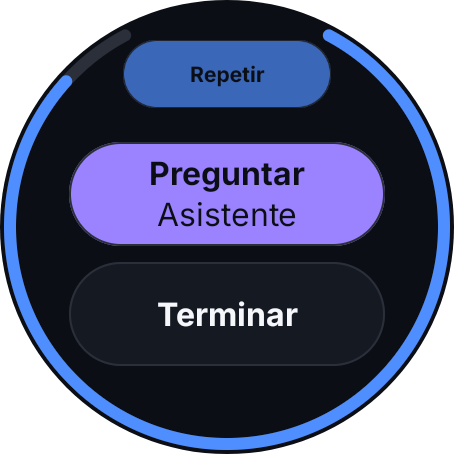
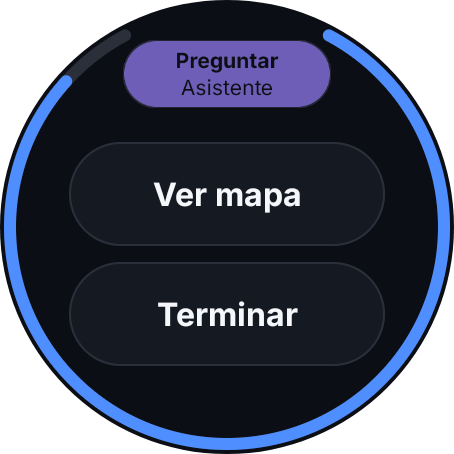
Bajar la etiqueta del mapa, agrandar la ruta entera y documentar el mapa con sus capturas

Changed region(s): [[0.1542, 0.3084, 0.8634, 0.5551], [0.2467, 0.0925, 0.7401, 0.2467]]

diff --git a/watchapp/app/src/main/java/com/rumbo/watchapp/presentation/screens/RouteMapScreen.kt b/watchapp/app/src/main/java/com/rumbo/watchapp/presentation/screens/RouteMapScreen.kt
@@ -1,20 +1,23 @@
 package com.rumbo.watchapp.presentation.screens
 
 import androidx.compose.foundation.layout.Arrangement
+import androidx.compose.foundation.layout.Column
 import androidx.compose.foundation.layout.Row
 import androidx.compose.foundation.layout.Spacer
 import androidx.compose.foundation.layout.fillMaxWidth
 import androidx.compose.foundation.layout.height
+import androidx.compose.foundation.layout.offset
+import androidx.compose.foundation.layout.padding
 import androidx.compose.runtime.Composable
 import androidx.compose.runtime.getValue
 import androidx.compose.runtime.mutableStateOf
 import androidx.compose.runtime.remember
 import androidx.compose.runtime.setValue
+import androidx.compose.ui.Alignment
 import androidx.compose.ui.Modifier
 import androidx.compose.ui.platform.LocalConfiguration
 import androidx.compose.ui.semantics.contentDescription
 import androidx.compose.ui.semantics.semantics
-import androidx.compose.ui.unit.Dp
 import androidx.compose.ui.unit.dp
 import com.rumbo.watchapp.application.usecase.TrackingState
 import com.rumbo.watchapp.domain.map.MapZoom
@@ -24,9 +27,17 @@ import com.rumbo.watchapp.presentation.components.RouteMapCanvas
 import com.rumbo.watchapp.presentation.components.StateBadge
 import com.rumbo.watchapp.presentation.format.describeDistance
 
-// Alto de la etiqueta y de los botones, con su separación: el mapa queda libre entre ellos.
-private val BadgeArea = 38.dp
-private val ButtonsArea = 60.dp
+// La etiqueta y los botones van juntos abajo, donde tapan lo ya recorrido y no lo que viene. Este es
+// su alto con la separación que pone RumboScreen; el resto queda para el mapa, sin desplazar.
+private val ControlsArea = 87.dp
+
+// Bajan un poco más sin cambiar lo medido, para no chocar con el punto de la persona, que va al
+// centro y puede ser del mismo color que la etiqueta. Así tampoco hay nada que desplazar.
+private val ControlsDrop = 6.dp
+private val ButtonsInset = 4.dp
+
+// Lo que ocupa la hora: la ruta entera se dibuja debajo de ella.
+private val TimeArea = 24.dp
 
 // El margen de arriba y abajo de RumboScreen en pantalla redonda.
 private const val VERTICAL_MARGIN = 0.14f
@@ -48,9 +59,9 @@ private fun describeMap(state: TrackingState, label: String, zoom: MapZoom): Str
 }
 
 /**
- * Pantalla "Mapa": la ruta dibujada por [RouteMapCanvas], con la etiqueta del estado arriba y
- * abajo "Atrás" y el botón que alterna la vista de cerca (la persona al centro, su rumbo arriba)
- * y la de toda la ruta (el norte arriba). Solo muestra [state]: la guía sigue por su cuenta.
+ * Pantalla "Mapa": la ruta dibujada por [RouteMapCanvas] y, abajo, la etiqueta del estado, "Atrás"
+ * y el botón que alterna la vista de cerca (la persona al centro, su rumbo arriba) y la de toda la
+ * ruta (el norte arriba). Solo muestra [state]: la guía sigue por su cuenta.
  */
 @Composable
 fun RouteMapScreen(state: TrackingState, onBack: () -> Unit, initialZoom: MapZoom = MapZoom.NEARBY) {
@@ -66,24 +77,29 @@ fun RouteMapScreen(state: TrackingState, onBack: () -> Unit, initialZoom: MapZoo
                     state = state,
                     zoom = zoom,
                     description = describeMap(state, label, zoom),
-                    topInset = margin + BadgeArea,
-                    bottomInset = margin + ButtonsArea,
+                    topInset = TimeArea,
+                    bottomInset = margin + ControlsArea,
                 )
             },
         ) {
-            StateBadge(label, lookOf(state).color, announce = true, filled = true)
-            Spacer(Modifier.height(freeHeight(screenHeight, margin)))
-            Row(Modifier.fillMaxWidth(), horizontalArrangement = Arrangement.spacedBy(8.dp)) {
-                PillButton("Atrás", onClick = onBack, modifier = Modifier.weight(1f))
-                ZoomButton(zoom, onChange = { zoom = it }, modifier = Modifier.weight(1f))
+            Spacer(Modifier.height((screenHeight - margin * 2 - ControlsArea).coerceAtLeast(0.dp)))
+            Column(
+                modifier = Modifier.offset(y = ControlsDrop),
+                horizontalAlignment = Alignment.CenterHorizontally,
+                verticalArrangement = Arrangement.spacedBy(2.dp),
+            ) {
+                StateBadge(label, lookOf(state).color, announce = true, filled = true, compact = true)
+                Row(
+                    modifier = Modifier.fillMaxWidth().padding(horizontal = ButtonsInset),
+                    horizontalArrangement = Arrangement.spacedBy(8.dp),
+                ) {
+                    PillButton("Atrás", onClick = onBack, modifier = Modifier.weight(1f))
+                    ZoomButton(zoom, onChange = { zoom = it }, modifier = Modifier.weight(1f))
+                }
             }
         }
     }
 }
-
-// Lo que sobra entre la etiqueta y los botones, sin obligar a desplazar la pantalla.
-private fun freeHeight(screenHeight: Dp, margin: Dp) =
-    (screenHeight - margin * 2 - BadgeArea - ButtonsArea).coerceAtLeast(0.dp)
 
 @Composable
 private fun ZoomButton(zoom: MapZoom, onChange: (MapZoom) -> Unit, modifier: Modifier = Modifier) {

diff --git a/watchapp/app/src/main/java/com/rumbo/watchapp/domain/map/RouteMap.kt b/watchapp/app/src/main/java/com/rumbo/watchapp/domain/map/RouteMap.kt
@@ -6,8 +6,9 @@ import com.rumbo.watchapp.domain.geo.cumulativeDistances
 import com.rumbo.watchapp.domain.geo.stepAlongDistances
 import com.rumbo.watchapp.domain.model.Coordinates
 import com.rumbo.watchapp.domain.model.Route
-import kotlin.math.hypot
+import kotlin.math.max
 import kotlin.math.min
+import kotlin.math.sqrt
 
 /** Lo que muestra la vista cercana delante de la persona. */
 const val NEARBY_RADIUS_M = 150.0
@@ -117,12 +118,26 @@ private fun nearbyRadiusPx(view: MapView) = min(view.width, view.height) / 2 - v
 private fun nearbyCamera(person: Point2, headingDeg: Double, view: MapView) =
     Camera(person, headingDeg, nearbyRadiusPx(view) / NEARBY_RADIUS_M, view.width / 2, view.height / 2)
 
-// Se ajusta por la distancia al centro y no por el rectángulo: en pantalla redonda las esquinas no existen.
+// Lo más grande que cabe en la franja libre sin salirse del círculo: en pantalla redonda las esquinas
+// no existen, y una ruta ancha puede pasar de lado a lado aunque la franja sea baja.
 private fun wholeRouteCamera(points: List<Point2>, view: MapView): Camera {
-    val focus = Point2((points.minOf { it.x } + points.maxOf { it.x }) / 2, (points.minOf { it.y } + points.maxOf { it.y }) / 2)
-    val farthest = points.maxOf { hypot(it.x - focus.x, it.y - focus.y) }
+    val south = points.minOf { it.y }
+    val north = points.maxOf { it.y }
+    val focus = Point2((points.minOf { it.x } + points.maxOf { it.x }) / 2, (south + north) / 2)
     val freeHeight = view.height - view.topInset - view.bottomInset
-    val radiusPx = min(view.width / 2 - view.margin, freeHeight / 2)
-    val scale = if (farthest > 0) radiusPx / farthest else nearbyRadiusPx(view) / NEARBY_RADIUS_M
-    return Camera(focus, 0.0, scale, view.width / 2, view.topInset + freeHeight / 2)
+    val centerY = view.topInset + freeHeight / 2
+    val radius = nearbyRadiusPx(view)
+    val inCircle = points.minOf { scaleInsideCircle(it.x - focus.x, it.y - focus.y, centerY - view.height / 2, radius) }
+    val inBand = if (north > south) freeHeight / (north - south) else Double.MAX_VALUE
+    val scale = min(inCircle, inBand).takeIf { it < Double.MAX_VALUE } ?: (radius / NEARBY_RADIUS_M)
+    return Camera(focus, 0.0, scale, view.width / 2, centerY)
+}
+
+// La mayor escala con la que un punto a (dx, dy) del foco queda en el círculo, si el foco se dibuja
+// [shift] px por debajo del centro: la raíz positiva de (s·dx)² + (shift - s·dy)² = radius².
+private fun scaleInsideCircle(dx: Double, dy: Double, shift: Double, radius: Double): Double {
+    val squared = dx * dx + dy * dy
+    if (squared == 0.0) return Double.MAX_VALUE
+    val along = shift * dy
+    return (along + sqrt(along * along + squared * max(radius * radius - shift * shift, 0.0))) / squared
 }

diff --git a/watchapp/app/src/test/java/com/rumbo/watchapp/domain/map/RouteMapTest.kt b/watchapp/app/src/test/java/com/rumbo/watchapp/domain/map/RouteMapTest.kt
@@ -153,6 +153,37 @@ class RouteMapTest {
         frame.route.flatten().forEach { assertTrue("$it", it.y in 50.0 - TOLERANCE..304.0 + TOLERANCE) }
     }
 
+    // Hora arriba y controles abajo, como en la pantalla: la franja libre queda por encima del centro.
+    private val highBand = MapView(454.0, 454.0, 27.0, topInset = 48.0, bottomInset = 234.0)
+
+    @Test
+    fun theWholeRouteStaysInsideTheCircleWhenTheFreeBandIsHigh() {
+        val frame = mapFrame(geometry, at(0.0, 100.0), 0.0, 100.0, MapZoom.WHOLE_ROUTE, highBand)
+
+        frame.route.flatten().forEach {
+            assertTrue("$it", hypot(it.x - center.x, it.y - center.y) <= 200.0 + TOLERANCE)
+            assertTrue("$it", it.y in 48.0 - TOLERANCE..220.0 + TOLERANCE)
+        }
+    }
+
+    @Test
+    fun aWideRouteUsesTheWidthOfTheScreenEvenIfTheFreeBandIsLow() {
+        val wide = RouteGeometry(Route("Este", 0.0, 0.0, emptyList(), listOf(at(0.0, 0.0), at(300.0, 0.0))))
+
+        val line = mapFrame(wide, null, null, 0.0, MapZoom.WHOLE_ROUTE, highBand).route.flatten()
+
+        assertTrue("Ancho: ${line.last().x - line.first().x}", line.last().x - line.first().x > 300)
+    }
+
+    @Test
+    fun theWholeRouteFillsTheFreeBandWhenItIsTall() {
+        val tall = RouteGeometry(Route("Norte", 0.0, 0.0, emptyList(), listOf(at(0.0, 0.0), at(0.0, 300.0))))
+
+        val line = mapFrame(tall, null, null, 0.0, MapZoom.WHOLE_ROUTE, highBand).route.flatten()
+
+        assertEquals(172.0, line.first().y - line.last().y, TOLERANCE)
+    }
+
     @Test
     fun theWholeRouteKeepsNorthUp() {
         val frame = frame(heading = 90.0, zoom = MapZoom.WHOLE_ROUTE)

diff --git a/watchapp/app/src/main/java/com/rumbo/watchapp/presentation/components/StateBadge.kt b/watchapp/app/src/main/java/com/rumbo/watchapp/presentation/components/StateBadge.kt
@@ -19,7 +19,8 @@ import com.rumbo.watchapp.presentation.theme.OnColor
 /**
  * Píldora con el nombre del estado escrito en su color, sobre un tinte del mismo color. El
  * estado siempre va en el texto; el color solo lo refuerza. Con [filled] la píldora es del color
- * y el texto va oscuro (como "Escuchando"). Con [announce], TalkBack lo lee cuando cambia.
+ * y el texto va oscuro (como "Escuchando"). Con [announce], TalkBack lo lee cuando cambia. Con
+ * [compact] ocupa menos alto, para cuando va sobre el mapa.
  */
 @Composable
 fun StateBadge(
@@ -28,13 +29,14 @@ fun StateBadge(
     modifier: Modifier = Modifier,
     announce: Boolean = false,
     filled: Boolean = false,
+    compact: Boolean = false,
 ) {
     Text(
         text = text,
         modifier = modifier
             .background(if (filled) color else color.copy(alpha = 0.16f), CircleShape)
             .border(1.dp, color, CircleShape)
-            .padding(horizontal = 14.dp, vertical = 6.dp)
+            .padding(horizontal = 14.dp, vertical = if (compact) 2.dp else 6.dp)
             .then(if (announce) Modifier.semantics { liveRegion = LiveRegionMode.Polite } else Modifier),
         style = MaterialTheme.typography.labelMedium,
         color = if (filled) OnColor else color,

diff --git a/watchapp/app/src/main/java/com/rumbo/watchapp/presentation/components/RouteMapCanvas.kt b/watchapp/app/src/main/java/com/rumbo/watchapp/presentation/components/RouteMapCanvas.kt
@@ -39,7 +39,7 @@ private val RouteBaseWidth = 9.dp
 private val OffRouteHighlightWidth = 13.dp
 private val TurnRadius = 10.dp
 private val TurnStroke = 3.dp
-private val DestinationRadius = 10.dp
+private val DestinationRadius = 12.dp
 private val PersonRadius = 7.dp
 private val ArrowTip = 19.dp
 private val ArrowHalfWidth = 8.dp
@@ -47,8 +47,8 @@ private val Outline = 2.dp
 
 /**
  * El mapa de la ruta, solo con lo que trae [state]: no usa teselas ni internet. Se dibuja una vez por
- * cada [state] o [zoom] nuevo, sin animaciones. [topInset] y [bottomInset] son lo que tapan los
- * controles: la ruta entera se ajusta entre ellos.
+ * cada [state] o [zoom] nuevo, sin animaciones. [topInset] y [bottomInset] son lo que tapan la hora
+ * y los controles: la ruta entera se ajusta entre ellos.
  */
 @Composable
 fun RouteMapCanvas(

diff --git a/watchapp/app/src/main/java/com/rumbo/watchapp/presentation/screens/RumboScreen.kt b/watchapp/app/src/main/java/com/rumbo/watchapp/presentation/screens/RumboScreen.kt
@@ -86,10 +86,10 @@ fun RumboScreen(
             content = content,
         )
     }
-    if (edgeRing == null) {
+    if (edgeRing == null && background == null) {
         ScreenScaffold(scrollState = scrollState, modifier = modifier, contentPadding = padding, content = body)
     } else {
-        // El anillo ocupa el borde: ahí no cabe además el indicador de desplazamiento.
+        // El anillo o el mapa ocupan el borde: ahí no cabe además el indicador de desplazamiento.
         ScreenScaffold(
             scrollState = scrollState,
             modifier = modifier,

diff --git a/docs/REQUIREMENTS.md b/docs/REQUIREMENTS.md
@@ -63,7 +63,7 @@ smartwatch-nav/
 │   └── requirements.txt
 ├── watchapp/
 │   └── app/src/main/java/.../
-│       ├── domain/{model,error,port}/
+│       ├── domain/{model,error,port,map}/
 │       ├── application/usecase/
 │       ├── infrastructure/{location,vibration,audio,tts,network}/
 │       ├── presentation/{screens,components,viewmodel,theme,format}/
@@ -351,6 +351,7 @@ vibration_events (log para demo/sustentación)
 - RF11: Repetir la indicación con el botón "Repetir", diciendo "repite" o con doble toque en cualquier parte de "En ruta", también con TalkBack.
 - RF12: Ningún paso de la ruta se omite por ser de un tipo desconocido: se dice y se muestra con su texto original, con vibración de atención y con "Atención:" si menciona un peligro.
 - RF13: Órdenes por voz en Inicio, Confirmar y en ruta: guardar el destino, repetir, cancelar, cuánto falta y si el destino está guardado, cada una con vibración de resultado y dicha en voz. El destino guardado se muestra en la ruta ("Guardado ✓") y se avisa al iniciar.
+- RF14: Mapa de la ruta en el reloj, desde "En ruta" con "Ver mapa": lo recorrido, lo que falta, el próximo giro, el destino y la persona con su rumbo, de cerca (los próximos ~150 m) o la ruta entera. Se dibuja sin teselas ni internet y solo lee el estado de la navegación (ver Pantallas, Mapa).
 
 ## 8. Requerimientos no funcionales
 
@@ -368,9 +369,9 @@ vibration_events (log para demo/sustentación)
 
 Diseñadas en Claude Design (lienzo "Rumbo — UI del reloj"). La app se prueba en el emulador **Wear OS Large Round** (454 × 454 px, 320 dpi = 227 dp); capturas de cada pantalla en `docs/capturas/` (se regeneran con `tools/capture_screens.sh`).
 
-**Pantalla redonda.** Todas usan `RumboScreen`: `ScreenScaffold` de Wear (la hora se esconde al desplazar y aparece el indicador de desplazamiento) con márgenes en proporción a la pantalla, 10 % a los lados y 14 % arriba y abajo (en la cuadrada, 5,2 % y 12 %), para que una píldora a lo ancho quepa entera en el círculo en la primera y la última posición y nada quede debajo de la hora. Si el contenido cabe, se centra; si no, se desplaza con el dedo o la corona. Lo que pasa por el borde de arriba o de abajo se achica (hasta 60 %) lo justo para entrar en el círculo y, si se achica más del 75 %, se atenúa, como en las listas de Wear: nada queda cortado. Con anillo, el contenido se aleja también del anillo.
+**Pantalla redonda.** Todas usan `RumboScreen`: `ScreenScaffold` de Wear (la hora se esconde al desplazar y aparece el indicador de desplazamiento) con márgenes en proporción a la pantalla, 10 % a los lados y 14 % arriba y abajo (en la cuadrada, 5,2 % y 12 %), para que una píldora a lo ancho quepa entera en el círculo en la primera y la última posición y nada quede debajo de la hora. Si el contenido cabe, se centra; si no, se desplaza con el dedo o la corona. Lo que pasa por el borde de arriba o de abajo se achica (hasta 60 %) lo justo para entrar en el círculo y, si se achica más del 75 %, se atenúa, como en las listas de Wear: nada queda cortado. Con anillo, el contenido se aleja también del anillo. El mapa va detrás de todo (`background`); con anillo o con mapa no se muestra el indicador de desplazamiento.
 
-**Gesto de volver.** El "atrás" del sistema (incluido el de TalkBack) y, hasta Android 15, deslizar de izquierda a derecha (`BasicSwipeToDismissBox`; desde Android 16 el sistema convierte ese gesto en "atrás"). Desde Inicio no se intercepta y sale de la app; desde Confirmar, Escuchando, Procesando (cancela la grabación o la carga), Error, Asistente, Lugares guardados y Vibraciones vuelve a Inicio, o a la ruta si hay una en curso (durante la secuencia de demostración primero la detiene); desde "¿Borrar?" vuelve a la lista; en ruta pregunta "¿Terminar la ruta?" (Seguir navegando / Terminar), salvo que ya se haya llegado, y volver otra vez equivale a "Seguir navegando".
+**Gesto de volver.** El "atrás" del sistema (incluido el de TalkBack) y, hasta Android 15, deslizar de izquierda a derecha (`BasicSwipeToDismissBox`; desde Android 16 el sistema convierte ese gesto en "atrás"). Desde Inicio no se intercepta y sale de la app; desde Confirmar, Escuchando, Procesando (cancela la grabación o la carga), Error, Asistente, Lugares guardados y Vibraciones vuelve a Inicio, o a la ruta si hay una en curso (durante la secuencia de demostración primero la detiene); desde "¿Borrar?" vuelve a la lista; desde Mapa vuelve a En ruta sin preguntar; en ruta pregunta "¿Terminar la ruta?" (Seguir navegando / Terminar), salvo que ya se haya llegado, y volver otra vez equivale a "Seguir navegando".
 
 1. Inicio: badge "Listo para navegar" (y "Sin GPS" si aún no hay permiso de ubicación), "Continuar ruta anterior" con el destino si la app se cerró a mitad de una ruta, "¿A dónde vamos?" (Poppins 700, 32 sp), botón de micrófono de 108 dp ("Hablar destino"), "Toca y habla", botones "Lugares guardados" y "Vibraciones" (Aprende los patrones), interruptor "Voz: sí" / "Voz: no" (el estado va en el texto, no solo en el color; se guarda en SharedPreferences y empieza en sí) con la voz en uso debajo ("Del reloj", "Gemini" o "No disponible") y, si falta el español del motor, el botón "Falta la voz en español del reloj".
    - Lugares guardados: lista de píldoras; tocar un lugar pide la ruta y pasa a Confirmar; mantenerlo pulsado ofrece borrarlo con confirmación ("¿Borrar «X»?" Cancelar / Borrar). Si está vacía: "Aún no tienes lugares guardados".
@@ -381,7 +382,7 @@ Diseñadas en Claude Design (lienzo "Rumbo — UI del reloj"). La app se prueba 
    - Permiso necesario: ícono, la explicación del permiso negado, "Abrir ajustes", "Ir sin notificación" (solo notificaciones), "Inicio" y la pista "En Ajustes, toca Permisos y actívalo".
 4. Confirmar destino: badge, nombre, distancia y tiempo a pie (mientras la app dice el destino en voz alta, el badge se funde en barras como las de Escuchando con un movimiento suave, `SpeakingBars`; ocupan su mismo lugar para que nada se mueva justo cuando se va a tocar "Ir", y TalkBack sigue leyendo el badge); Ir, "Hablar" (morado, con "Micrófono" debajo: abre Escuchando), Cambiar y "Guardar" ("Guardando..." → "Guardado ✓"; si falla, "No pude guardar el lugar"). Si el destino vino de un lugar guardado o ya estaba guardado, aparece "Guardado ✓".
 5. Error: ícono de advertencia, el mensaje, Reintentar e Inicio ("Volver a la ruta" si hay una en curso).
-6. En ruta: anillo de progreso en el borde (se llena hacia el siguiente paso; deja libre el hueco de la hora), badge del estado, ícono de la maniobra siguiente, la indicación (24 sp; 20 sp si pasa de 16 caracteres; con más de 30 el ícono baja de 72 a 60 dp para que se lea sin desplazar; si a 20 sp ocupa más de 3 líneas, medido con `onTextLayout` porque depende de dónde caen las palabras, baja a 16 sp y el ícono a 48 dp: así las indicaciones reales largas, como "Gire a la izquierda para permanecer en Carrera 14.", se leen enteras y no quedan cortadas ni atenuadas por el borde redondo), "En X m" y "Faltan X", "Guardado ✓" si el destino está guardado (TalkBack lee "Destino guardado"), indicador de vibración y botones "Repetir" (vuelve a vibrar el último patrón y dice la indicación de la etapa actual), "Preguntar" (morado `#9B82FF` con "Asistente" debajo: abre Escuchando sin detener la ruta) y "Terminar". Un **doble toque en cualquier parte** de la pantalla, también sobre los botones, hace lo mismo que "Repetir" (`doubleTapAnywhere`: se escucha antes que los botones y el segundo toque se consume). Los tres botones actúan tras la ventana de doble toque (300 ms, `DoubleTapGate`), porque "Terminar" acaba la ruta en el primer toque: sin esa espera, un doble toque que cayera ahí dejaba a la persona sin guía (`RouteDoubleTapTest`). Con TalkBack los toques no llegan a la app: el lector activa lo que tenga enfocado, así que el estado, el ícono, la indicación, las distancias y el anillo llevan una acción de clic con la etiqueta "repetir la indicación"; si el foco está en un botón, activa ese botón. Estados, cada uno con su texto, color e ícono:
+6. En ruta: anillo de progreso en el borde (se llena hacia el siguiente paso; deja libre el hueco de la hora), badge del estado, ícono de la maniobra siguiente, la indicación (24 sp; 20 sp si pasa de 16 caracteres; con más de 30 el ícono baja de 72 a 60 dp para que se lea sin desplazar; si a 20 sp ocupa más de 3 líneas, medido con `onTextLayout` porque depende de dónde caen las palabras, baja a 16 sp y el ícono a 48 dp: así las indicaciones reales largas, como "Gire a la izquierda para permanecer en Carrera 14.", se leen enteras y no quedan cortadas ni atenuadas por el borde redondo), "En X m" y "Faltan X", "Guardado ✓" si el destino está guardado (TalkBack lee "Destino guardado"), indicador de vibración y botones "Repetir" (vuelve a vibrar el último patrón y dice la indicación de la etapa actual), "Preguntar" (morado `#9B82FF` con "Asistente" debajo: abre Escuchando sin detener la ruta), "Ver mapa" y "Terminar". Un **doble toque en cualquier parte** de la pantalla, también sobre los botones, hace lo mismo que "Repetir" (`doubleTapAnywhere`: se escucha antes que los botones y el segundo toque se consume). Los cuatro botones actúan tras la ventana de doble toque (300 ms, `DoubleTapGate`), porque "Terminar" acaba la ruta en el primer toque: sin esa espera, un doble toque que cayera ahí dejaba a la persona sin guía (`RouteDoubleTapTest`). Con TalkBack los toques no llegan a la app: el lector activa lo que tenga enfocado, así que el estado, el ícono, la indicación, las distancias y el anillo llevan una acción de clic con la etiqueta "repetir la indicación"; si el foco está en un botón, activa ese botón. Estados, cada uno con su texto, color e ícono:
 
 | Estado | Badge | Color | Ícono | Texto principal |
 |---|---|---|---|---|
@@ -395,6 +396,20 @@ Diseñadas en Claude Design (lienzo "Rumbo — UI del reloj"). La app se prueba 
 
 7. Asistente: badge "Asistente" relleno en `#9B82FF` (mientras suena la respuesta se funde en barras, `SpeakingBars`, como en Confirmar), la pregunta entre comillas («¿Cuánto falta para llegar?», en `#A0A8B8`; TalkBack lee "Preguntaste: ..."), la respuesta en Poppins (se anuncia sola con `liveRegion`), "Preguntar otra vez" (morado) y "Volver a la ruta" o "Inicio". Antes, Procesando con "Pensando la respuesta...".
 
+8. Mapa, desde "Ver mapa" en En ruta (RF14): la ruta dibujada a pantalla completa (`RouteMapCanvas`, Canvas de Compose), sin librerías, teselas ni internet. Fondo `#0B0E14`; ruta completa `#2A2F3A`; lo recorrido `#4F8EFF`; lo que falta `#F5F7FA`; destino: diana `#3DDC84`; próximo giro: aro `#FFC857`; persona: punto con flecha de dirección `#FFC857`. Las tres marcas se distinguen por la forma, no solo por el color. Abajo, la etiqueta del estado (badge relleno y compacto), "Atrás" y "Ruta" / "Cerca" (TalkBack: "Ver toda la ruta" / "Ver de cerca"). Etiqueta y botones van juntos abajo porque ahí tapan lo ya recorrido; arriba escondían el próximo giro. TalkBack lee el mapa en palabras ("Mapa de cerca. En ruta. Gire a la derecha. Faltan 80 metros") y anuncia los cambios de estado.
+   - De cerca (por defecto): la persona al centro, su rumbo hacia arriba y 150 m hasta el margen del borde. Quieta conserva el último rumbo; sin ninguno, usa la dirección de la ruta. Sin lectura de GPS, la persona va sobre la ruta.
+   - Toda la ruta: norte arriba, lo más grande que cabe entre la hora y los controles sin salirse del círculo, incluida la persona si está lejos de la ruta.
+   - Geometría en `domain/map`, Kotlin puro con JUnit: proyección equirrectangular (`LocalProjection`), giro por rumbo (`rotateToHeading`), recorte al rectángulo visible con Liang-Barsky (`clipToViewport`), corte en lo recorrido (`splitAlong`) y `mapFrame`, que arma cada cuadro. Ruta vacía: solo fondo y controles. Ruta de un punto: el destino bajo la persona.
+   - Batería: `mapUpdates` deja pasar como mucho un cuadro por segundo y solo si cambió algo que se ve (la vibración no); sin cambios no redibuja, no hay animaciones y solo se recoge con la pantalla abierta. Se mantiene encendida y se atenúa como En ruta.
+   - Solo lee `TrackingState`: abrir o cerrar el mapa no toca GPS, vibraciones ni voz, y siguen sonando mientras está abierto. Al recalcular muestra la ruta nueva.
+
+| Estado | Etiqueta | Persona | Ruta |
+|---|---|---|---|
+| En ruta, giro próximo, maniobra | En ruta, Giro próximo, Gira ahora o Atención | `#FFC857` | normal |
+| Desviado | Fuera de ruta | `#FF8A3D` | resaltada con un borde `#FF8A3D` |
+| Sin señal | Sin señal | `#8A93A6`, en la última posición | normal |
+| Llegada | Llegaste | `#FFC857`, sobre el destino | toda recorrida |
+
 ## 10. Estilo visual — Design tokens
 
 - Tipografía: títulos Poppins (600/700), texto Inter (400/500/700), empaquetadas como TTF en `res/font` (descargadas de Google Fonts, licencia OFL en `assets/licenses`; sin proveedor de fuentes en línea). Escala del reloj: 16 / 20 / 24 / 32 / 40 sp con interlineado 1.25; ningún texto baja de 16 sp (`presentation/theme/Type.kt`).
@@ -402,10 +417,11 @@ Diseñadas en Claude Design (lienzo "Rumbo — UI del reloj"). La app se prueba 
 - Escala semántica de estados (siempre con texto): en ruta `#4F8EFF`, giro próximo `#FFC857`, desviado `#FF8A3D`, sin señal GPS `#8A93A6`, llegada `#3DDC84`.
 - Formas: botones en píldora de 52 dp de alto como mínimo, borde fino de 1 dp en `#2A2F3A`, sin sombras.
 - Componentes (`presentation/components`):
-  - `StateBadge`: píldora con el nombre del estado escrito en su color sobre un tinte del 16 % del mismo color y borde de 1 dp; puede anunciarse con TalkBack.
+  - `StateBadge`: píldora con el nombre del estado escrito en su color sobre un tinte del 16 % del mismo color y borde de 1 dp; puede anunciarse con TalkBack. Tiene versión rellena y versión compacta, que es la del mapa.
   - `ProgressRing`: anillo de 6 dp en el borde con hueco arriba para la hora; se llena con la distancia restante al siguiente paso normalizada por el largo del tramo (`TrackingState.stepProgress`).
   - `StateIcon`: íconos de trazo de 72 dp: micrófono, izquierda, derecha, recto, vuelta en U, rotonda, advertencia, sin señal GPS y llegada, cada uno con su descripción. El backend reduce las maniobras a izquierda/derecha/recto/llegada, así que vuelta en U y rotonda aún no se muestran en ruta.
   - `VibrationIndicator`: una barra en píldora de 22 × 8 dp por pulso que se enciende al ritmo real del patrón (más opaca cuanto más fuerte) y cómo se siente en texto ("2 pulsos muy cortos"); TalkBack lee nombre y descripción ("Vibración: Giro próximo: 2 pulsos muy cortos").
+  - `RouteMapCanvas`: dibuja un `MapFrame` con Canvas; cada `TrackingState` o cambio de vista es un cuadro, sin animaciones.
   - `PillButton` (primario, secundario y peligro), `MicButton` (108 dp) y `PillSwitch`.
 - Reglas: contraste mínimo 4.5:1 en texto, un estado por pantalla, poca información por vista.
 
@@ -423,6 +439,7 @@ Diseñadas en Claude Design (lienzo "Rumbo — UI del reloj"). La app se prueba 
 
 ## 13. Changelog
 
+- **v0.46** (2026-10-30): Mapa de la ruta en el reloj (RF14). Pantalla "Mapa" desde "Ver mapa" en En ruta, dibujada con Canvas, sin librerías, teselas ni internet: vista de cerca con la persona al centro y su rumbo arriba, y vista de toda la ruta con el norte arriba. Estados con etiqueta y color: desviado, sin señal y llegada. `TrackingState` publica también la ruta en uso, la posición suavizada, el último rumbo y el avance; `NavigationEngine`, umbrales, vibraciones y guía hablada no cambian. Nuevo `domain/map` con funciones puras y `mapUpdates`, que limita el redibujo a uno por segundo y solo con cambios visibles. `onCleared` ahora mira si hay ruta en curso: antes apagaba el GPS si la actividad se destruía fuera de En ruta, y ese caso habría incluido el mapa. Las capturas corrigieron el primer diseño: la etiqueta arriba escondía el próximo giro, el punto de la persona se fundía con ella y la ruta entera quedaba muy pequeña; ahora la etiqueta va abajo con los botones y la ruta usa toda la franja libre. Probado en el emulador con la app real contra Render, con una ruta de 1,4 km: "Ver mapa", el dibujo siguiendo al GPS simulado, las dos vistas y "Atrás", sin que se termine la navegación. Ese GPX se alejaba de la ruta, así que el tramo azul solo se vio en las capturas y las pruebas; las pruebas manuales M1 a M8 están por hacer. 63 JUnit nuevos (474) y 8 instrumentados nuevos (`RouteMapScreenTest`, 24 en total más las capturas); capturas `33` a `37`.
 - **v0.45** (2026-10-30): Probado contra Render ya redesplegado. `/speech` responde `retry_after_s` y `Retry-After`, y `/voice/interpret` clasifica bien las 5 órdenes con audio generado sin Gemini. De punta a punta en el reloj, con el parche temporal del micrófono: 12 órdenes correctas, 4 en ruta, 5 en Confirmar y 3 en Inicio, con su vibración "Hecho" o "Error" y su pantalla; "cancela" en ruta pregunta y no termina. Esa prueba encontró una regresión de las v0.41 y v0.43: `route_steps.maneuver` y `voice_commands.intent` conservaban su restricción `CHECK` original, así que una ruta con un giro suave o unas escaleras no se guardaba (`route_id` null) y las órdenes nuevas no quedaban en el historial. La navegación no se enteraba, porque guardar el historial nunca la detiene, y los tests tampoco, porque `tables.py` no tenía esas restricciones. Nueva migración `003_new_maneuvers_and_intents.sql`, ya aplicada en producción: la misma ruta con escaleras vuelve con `route_id`. `tables.py` ahora las tiene y `test_migrate.py` exige que todo valor del código esté en la migración. Sin probar: guardar por voz un destino nuevo, sin internet y la voz de cada resultado, porque la cuota diaria de Gemini TTS estaba agotada. 21 pytest nuevos (217).
 - **v0.44** (2026-10-30): Arreglado el 429 de la voz de Gemini. No era cuota agotada: leyendo la respuesta real, Gemini gratis permite 3 frases por minuto y 10 por día, y dice cuánto esperar. Rumbo trataba cualquier 429 como cuota agotada y callaba la voz 30 minutos, y la precarga gastaba esos 3 cupos y duplicaba frases. Ahora el backend manda `retry_after_s` (y `Retry-After`), distinguiendo el límite por minuto del diario, y el reloj espera exactamente eso, o 60 s si no viene. `SpeechAudioStore` evita pedir dos veces la misma frase y limita la precarga a 2 peticiones por minuto, y un 429 de la precarga ya no calla la voz. Simulando el límite real en la ruta de demo se oyen 12 de 15 frases, antes 2 de 15; al quitar el arreglo, ese test falla. Con Gemini real se comprobaron los dos 429, por minuto y por día. En el emulador contra Render, aún sin este backend, tras un 429 el reloj volvió a intentar a los 81 s y no a los 30 minutos. Con la cuota diaria agotada por las pruebas de hoy, el flujo con audio real se vio con una sola frase: `POST /speech` 200 y el audio guardado en la caché del reloj. 10 pytest nuevos (196) y 22 JUnit nuevos (411).
 - **v0.43** (2026-10-30): Órdenes de voz (RF13). Revisada la animación de voz (nivel real, fin de habla, pantalla A2, barras en Confirmar y Asistente): ya estaba completa y no se tocó. `/voice/interpret` suma `guardar_destino`, `cuanto_falta` y `estado_guardado`, y `repeat` y `cancel` pasan a `repetir_instruccion` y `cancelar_ruta`; el reloj acepta los dos nombres mientras Render no se redespliegue. `ExecuteVoiceCommand` saca la lógica del ViewModel y cumple cada orden según dónde se dijo. Micrófono nuevo en Confirmar ("Hablar"), con vuelta a la misma ruta. Vibraciones "Hecho" y "Error" en toda orden, en Probar vibraciones y en la secuencia, ahora de 10. "¿Cuánto falta?" se responde en el reloj sin Gemini. "Guardado ✓" en la ruta y "Este destino está guardado." al iniciar, con `Route.destinationSaved`, que sobrevive a recálculos y a la muerte del proceso. Cancelar en ruta ahora pregunta también en voz: antes solo cambiaba la pantalla, en silencio. Probado en el emulador contra Render (aún sin estos cambios): micrófono en Confirmar, "Cancelar" vuelve a Confirmar sin llamar a `/voice/interpret`, y "Guardado ✓" en ruta. Con Gemini real, fuera de los tests: 12 de 12 frases en texto y 4 de 4 con audio. Sin probar: una orden nueva de punta a punta en el reloj, porque el micrófono del emulador no capta voz y Render aún no tiene las intenciones. Visto en esa prueba: decir y precargar a la vez llegó a dar 429 en `POST /speech`, y un 429 calla Gemini 30 minutos; solo afecta a relojes sin voz propia. 9 pytest nuevos (186), 58 JUnit nuevos (389) y 6 instrumentados nuevos (`VoiceCommandScreenTest`, 16 en total más las capturas).

diff --git a/CLAUDE.md b/CLAUDE.md
@@ -35,8 +35,8 @@ Proyecto: **Rumbo**, app Wear OS de navegación por vibraciones para personas ci
 - Logcat: `adb logcat -s Nav Vibracion Red` (estados de navegación, patrones de vibración y peticiones al backend).
 - Demo con GPX (`docs/demo`): poner la posición antes de pedir la ruta (`adb emu geo fix -77.278419 1.214997`, primero la longitud; para repetirla, reabrir la app antes); la app ya no inventa el origen. "Sin señal" en el emulador: apagar la ubicación 15 s (`adb shell cmd location set-location-enabled false` y luego `true`); el hueco del GPX no basta.
 
-## Estado (2026-10-30, REQUIREMENTS v0.45)
+## Estado (2026-10-30, REQUIREMENTS v0.46)
 Fases 1–3 completas; fase 4 (asistente y cierre) en curso.
-- Hecho: voz → destino → confirmar (con lugares guardados), ruta a pie, navegación con GPS y vibraciones (giro próximo y maniobra en dos etapas, desvío con recálculo, sin señal, llegada) que se distinguen solo por ritmo en relojes sin control de intensidad, pantalla "Vibraciones" para probarlas (secuencia de demostración y ajustes de intensidad y duración), voz hablada (con barras animadas mientras habla), guía por etapas para personas ciegas (lejos, preparación y ahora, con calle, giros suaves y cerrados, media vuelta, rotonda con salida, "Luego," y aviso del destino con su lado; audio de la siguiente etapa precargado), pasos que Geoapify no clasifica ("Tome las escaleras.": nunca se omiten, se dicen con su texto y "Atención:" si hay peligro, con vibración propia), repetir con doble toque en cualquier parte de En ruta, pantalla Escuchando con barras que siguen la voz real y corte automático al terminar de hablar (la voz de la app espera mientras graba), asistente conversacional (RF9: `POST /voice/ask` con el contexto de la ruta; pantalla Asistente y botón "Preguntar" en ruta), órdenes de voz (RF13: `ExecuteVoiceCommand`, micrófono en Inicio, Confirmar y en ruta; guardar destino, repetir, cancelar, cuánto falta y si está guardado, con vibración "Hecho" o "Error" y la voz diciendo el resultado; "Guardado ✓" en la ruta y aviso al iniciar), UI redonda con TalkBack, servicio en primer plano (sigue con la pantalla apagada), permisos pedidos al necesitarlos con pantalla de explicación, errores de red/GPS en español con un reintento, "Continuar ruta anterior" si el proceso muere, base de datos con historial, rutas verificadas en mapa (`tools/preview_route.py`) con pasos limpios y simulación realista del GPS (`tools/route_to_gpx.py`).
-- Pruebas: 217 pytest, 411 JUnit (incluye la máquina de estados con la ruta real y los tres GPX realistas de `docs/demo`, y 30 recorridos con ruido) y 16 instrumentadas (doble toque, paso desconocido y órdenes de voz); pruebas manuales en `docs/PRUEBAS.md`.
-- Pendiente: probar C3 y C9 y oír los resultados en voz cuando haya cuota, probar en un reloj real la voz de las respuestas y la pausa al grabar (A3, A6; en el emulador no hay voz propia y la cuota de Gemini TTS se agota), pruebas de accesibilidad en reloj real (incluye el doble toque con TalkBack, R14), video de sustentación y confirmar los requisitos del profesor.
+- Hecho: voz → destino → confirmar (con lugares guardados), ruta a pie, navegación con GPS y vibraciones (giro próximo y maniobra en dos etapas, desvío con recálculo, sin señal, llegada) que se distinguen solo por ritmo en relojes sin control de intensidad, pantalla "Vibraciones" para probarlas (secuencia de demostración y ajustes de intensidad y duración), voz hablada (con barras animadas mientras habla), guía por etapas para personas ciegas (lejos, preparación y ahora, con calle, giros suaves y cerrados, media vuelta, rotonda con salida, "Luego," y aviso del destino con su lado; audio de la siguiente etapa precargado), pasos que Geoapify no clasifica ("Tome las escaleras.": nunca se omiten, se dicen con su texto y "Atención:" si hay peligro, con vibración propia), repetir con doble toque en cualquier parte de En ruta, mapa de la ruta dibujado con Canvas y sin internet (RF14: "Ver mapa", de cerca con el rumbo arriba o la ruta entera, y etiqueta en cada estado; solo lee `TrackingState`), pantalla Escuchando con barras que siguen la voz real y corte automático al terminar de hablar (la voz de la app espera mientras graba), asistente conversacional (RF9: `POST /voice/ask` con el contexto de la ruta; pantalla Asistente y botón "Preguntar" en ruta), órdenes de voz (RF13: `ExecuteVoiceCommand`, micrófono en Inicio, Confirmar y en ruta; guardar destino, repetir, cancelar, cuánto falta y si está guardado, con vibración "Hecho" o "Error" y la voz diciendo el resultado; "Guardado ✓" en la ruta y aviso al iniciar), UI redonda con TalkBack, servicio en primer plano (sigue con la pantalla apagada), permisos pedidos al necesitarlos con pantalla de explicación, errores de red/GPS en español con un reintento, "Continuar ruta anterior" si el proceso muere, base de datos con historial, rutas verificadas en mapa (`tools/preview_route.py`) con pasos limpios y simulación realista del GPS (`tools/route_to_gpx.py`).
+- Pruebas: 217 pytest, 474 JUnit (incluye la máquina de estados con la ruta real y los tres GPX realistas de `docs/demo`, y 30 recorridos con ruido) y 24 instrumentadas (doble toque, paso desconocido, órdenes de voz y mapa); pruebas manuales en `docs/PRUEBAS.md`.
+- Pendiente: probar C3 y C9 y oír los resultados en voz cuando haya cuota, hacer las pruebas manuales del mapa (M1 a M8), probar en un reloj real la voz de las respuestas y la pausa al grabar (A3, A6; en el emulador no hay voz propia y la cuota de Gemini TTS se agota), pruebas de accesibilidad en reloj real (incluye el doble toque con TalkBack, R14), video de sustentación y confirmar los requisitos del profesor.

diff --git a/docs/PRUEBAS.md b/docs/PRUEBAS.md
@@ -9,9 +9,9 @@ qué se espera; si algo no coincide, es un error.
 | Qué | Comando | Qué cubren |
 |---|---|---|
 | Backend | `cd backend` y `pytest` | Casos de uso, routers, repositorios (SQLite en memoria), Gemini y Geoapify con dobles, límite de 50 km en `POST /routes` |
-| Reloj (JUnit) | `cd watchapp` y `gradlew testDebugUnitTest` | Geometría, filtro GPS, motor de navegación, vibraciones, frases, voz (prioridades y pausa al grabar), órdenes de voz y contexto del asistente, casos de uso, red (reintento y mensajes), ViewModel |
+| Reloj (JUnit) | `cd watchapp` y `gradlew testDebugUnitTest` | Geometría, filtro GPS, motor de navegación, vibraciones, frases, voz (prioridades y pausa al grabar), órdenes de voz y contexto del asistente, mapa (proyección, recorte, giro por rumbo, cuadros y ritmo de redibujo), casos de uso, red (reintento y mensajes), ViewModel |
 | Recorridos GPX | incluidas en el comando anterior | `DemoGpxNavigationTest` y `DemoGpxTrackingTest` recorren los tres GPX de `docs/demo` segundo a segundo |
-| Instrumentados | `gradlew connectedDebugAndroidTest -Pandroid.testInstrumentationRunnerArguments.package=com.rumbo.watchapp.presentation` (emulador abierto) | `RouteDoubleTapTest`: toques reales sobre "En ruta", repite sin importar dónde caiga, nunca termina la ruta por un doble toque, y la acción que usa TalkBack. `UnknownStepScreenTest`: "Atención" en En ruta y en Probar vibraciones. `VoiceCommandScreenTest`: micrófono en Confirmar, "Guardado ✓" en la ruta y las vibraciones "Hecho" y "Error". También corre `ScreenshotsTest` |
+| Instrumentados | `gradlew connectedDebugAndroidTest -Pandroid.testInstrumentationRunnerArguments.package=com.rumbo.watchapp.presentation` (emulador abierto) | `RouteDoubleTapTest`: toques reales sobre "En ruta", repite sin importar dónde caiga, nunca termina la ruta por un doble toque, y la acción que usa TalkBack. `UnknownStepScreenTest`: "Atención" en En ruta y en Probar vibraciones. `VoiceCommandScreenTest`: micrófono en Confirmar, "Guardado ✓" en la ruta y las vibraciones "Hecho" y "Error". `RouteMapScreenTest`: "Ver mapa", etiquetas de cada estado, descripción para TalkBack, "Atrás", alternar la vista y botones de 48 dp o más. También corre `ScreenshotsTest` |
 | Capturas | `bash tools/capture_screens.sh` (emulador abierto) | Dibuja todas las pantallas en `docs/capturas` |
 
 Las pruebas con GPX usan la ruta real del backend (`docs/demo/ruta_parque_narino_a_parque_bolivar.json`,
@@ -116,6 +116,19 @@ Cada orden termina con "Hecho" (2 pulsos cortos) o "Error" (1 pulso extra largo)
 | R13 | Precarga | Con voz Gemini y frases sin caché, mirar `adb logcat -s Red` al tocar "Ir" | Dos `POST /speech` seguidos: la frase de inicio y la de la siguiente etapa. Al sonar la siguiente etapa no hay otro `POST /speech` con esa frase, ni más de 2 precargas por minuto. Si llega un 429, la voz vuelve sola tras la espera (`Red` lo muestra), no 30 minutos después |
 | R14 | TalkBack en ruta (solo reloj real) | Con TalkBack, tocar la indicación para enfocarla y dar doble toque en cualquier parte | Anuncia "repetir la indicación" y repite. Con el foco en un botón, activa ese botón |
 | R15 | Paso desconocido | Pedir una ruta con escaleras con `GEOAPIFY_ROUTE_TYPE=short` en el backend (p. ej. en Barcelona, de 41.4145, 2.1527 a 41.4120, 2.1500) y caminarla o simularla | Antes del paso: "Atención: en cincuenta metros, tome las escaleras.", pantalla "Atención" con el ícono de advertencia y 4 pulsos cortos; a 12 m, "Atención: ahora, tome las escaleras." y otra vez 4 pulsos. Ninguna escalera de la ruta queda sin avisar |
+
+### Mapa
+
+| # | Prueba | Pasos | Resultado esperado |
+|---|---|---|---|
+| M1 | Abrir y volver | En ruta, bajar hasta "Ver mapa" y tocarlo; luego "Atrás" o el gesto de volver | Abre "Mapa" y vuelve a En ruta sin preguntar "¿Terminar la ruta?"; la voz y las vibraciones no se cortan (`adb logcat -s Nav Vibracion`) |
+| M2 | Recorrido | Con el mapa abierto, Play route en el GPX | La persona sigue al centro con el rumbo hacia arriba; lo recorrido queda azul, lo que falta claro y el próximo giro con un aro amarillo |
+| M3 | Vistas | Tocar "Ruta" y luego "Cerca" | Toda la ruta con el norte arriba, destino en verde y la flecha con su rumbo; vuelve a la vista de cerca. TalkBack lee "Ver toda la ruta" y "Ver de cerca" |
+| M4 | Desviado | Con `ruta_con_desvio.gpx` y el mapa abierto | Persona naranja, ruta con borde naranja y "Fuera de ruta"; al recalcular aparece la ruta nueva |
+| M5 | Sin señal | Con el mapa abierto, apagar la ubicación 15 s | Persona gris en la última posición y "Sin señal"; al volver la señal sigue normal |
+| M6 | Llegada | Dejar correr el GPX hasta el final con el mapa abierto | "Llegaste" sobre el destino; "Atrás" vuelve a la pantalla de llegada |
+| M7 | Sin internet | Activar modo avión con la ruta ya calculada y abrir el mapa | Se dibuja igual: no pide nada a la red (`adb logcat -s Red`) |
+| M8 | Batería | Con el mapa abierto y sin moverse | Nada se mueve en pantalla; tras 15 s se atenúa, y al tocar vuelve el brillo |
 
 ### Lugares guardados
 

diff --git a/docs/capturas/README.md b/docs/capturas/README.md
@@ -13,7 +13,7 @@ misma pantalla desplazada hasta el final.
 | `05_confirmar.png`, `06_confirmar_abajo.png` | Confirmar destino: Ir / Hablar / Cambiar / Guardar |
 | `27_confirmar_hablando.png` | Confirmar mientras la app dice el destino: el badge se funde en barras que se mueven |
 | `07_error.png` | Error: Reintentar / Inicio |
-| `08_en_ruta.png`, `09_en_ruta_abajo.png` | En ruta, con distancias, vibración, Repetir, Preguntar (asistente) y Terminar |
+| `08_en_ruta.png`, `09_en_ruta_abajo.png` | En ruta, con distancias, vibración, Repetir, Preguntar (asistente), Ver mapa y Terminar |
 | `10_giro_proximo.png` | Giro próximo |
 | `11_gira_ahora.png` | Gira ahora |
 | `12_fuera_de_ruta.png` | Fuera de ruta |
@@ -33,6 +33,11 @@ misma pantalla desplazada hasta el final.
 | `29_asistente_hablando.png` | Asistente mientras dice la respuesta: el badge se funde en barras |
 | `31_pensando_respuesta.png` | Procesando mientras el asistente responde |
 | `32_atencion_escaleras.png` | Paso desconocido: "Atención" con el ícono de advertencia y el texto de Geoapify |
+| `33_mapa_en_ruta.png` | Mapa de cerca: la persona al centro con el rumbo arriba, lo recorrido en azul, lo que falta en claro y el próximo giro con un aro |
+| `34_mapa_desviado.png` | Mapa, desviado: persona naranja, ruta resaltada y "Fuera de ruta" |
+| `35_mapa_sin_senal.png` | Mapa, sin señal: persona gris en la última posición y "Sin señal" |
+| `36_mapa_toda_la_ruta.png` | Mapa con toda la ruta: norte arriba, destino en verde y botón "Cerca" |
+| `37_mapa_llegada.png` | Mapa, llegada: la persona sobre el destino y "Llegaste" |
 
 ## Regenerarlas
 
